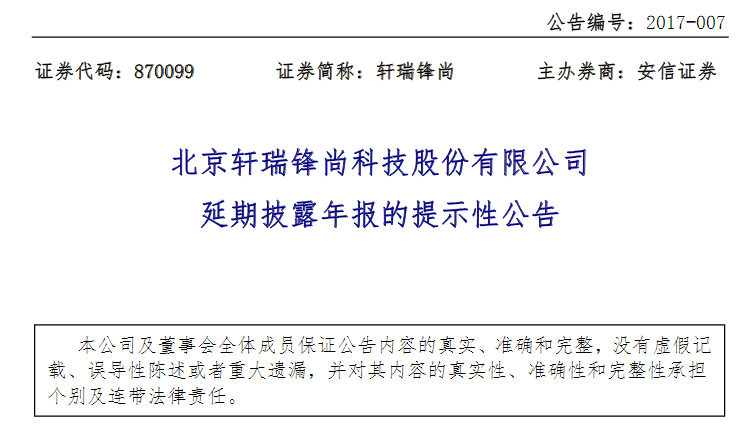
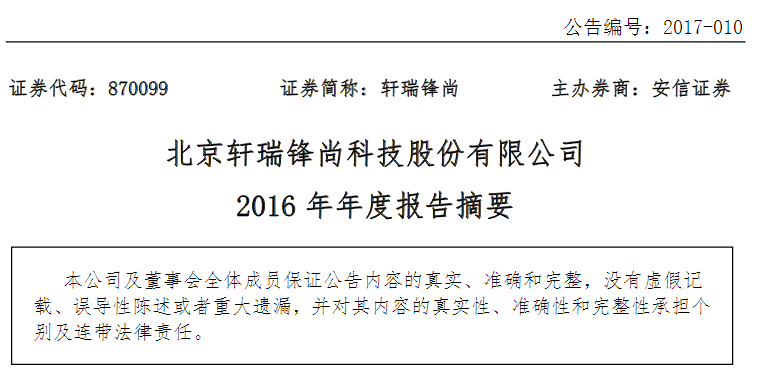
042701
01

diff --git a/ievent.html b/ievent.html
@@ -3,13 +3,43 @@
 <div class="eNews">
     <div class="container">
         <ul>
+		<li>
+                <div class="row">
+                    <div class="col-md-4">
+                        <img class="img-responsive" src="images/news10.png" alt="">
+                    </div>
+                    <div class="col-md-8">
+                        <h3><span localeString="event_header10">2016年年度股东大会通知公告</span></h3>
+                        <div class="newsText"><span localeString="event_header8_">
+                         
+						 <a href="http://www.neeq.com.cn/disclosure/2017/2017-04-26/1493211905_964935.pdf" target="_blank">查看公告详情</a>
+						 
+                        </span></div>
+                    </div>
+                </div>
+            </li>
+		<li>
+                <div class="row">
+                    <div class="col-md-4">
+                        <img class="img-responsive" src="images/news9.png" alt="">
+                    </div>
+                    <div class="col-md-8">
+                        <h3><span localeString="event_header9">第一届董事会第四次会议决议公告</span></h3>
+                        <div class="newsText"><span localeString="event_header8_">
+                         
+						 <a href="http://www.neeq.com.cn/disclosure/2017/2017-04-26/1493210407_550917.pdf" target="_blank">查看公告详情</a>
+						 
+                        </span></div>
+                    </div>
+                </div>
+            </li>
             <li>
                 <div class="row">
                     <div class="col-md-4">
                         <img class="img-responsive" src="images/news8.png" alt="">
                     </div>
                     <div class="col-md-8">
-                        <h3><span localeString="event_header8">延期披露年报的提示性公告</span></h3>
+                        <h3><span localeString="event_header8">2016年年度报告摘要</span></h3>
                         <div class="newsText"><span localeString="event_header8_">
                          
 						 <a href="http://www.neeq.com.cn/disclosure/2017/2017-04-18/1492500927_565539.pdf" target="_blank">查看公告详情</a>
